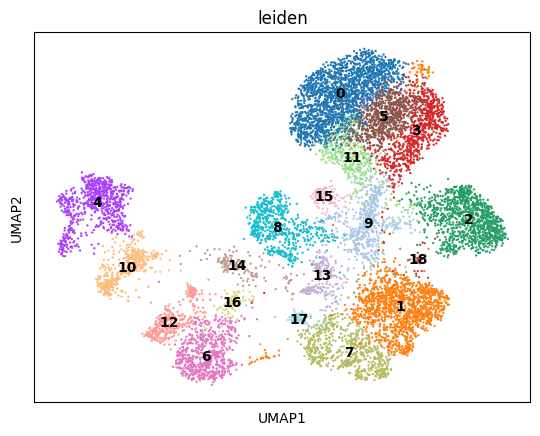
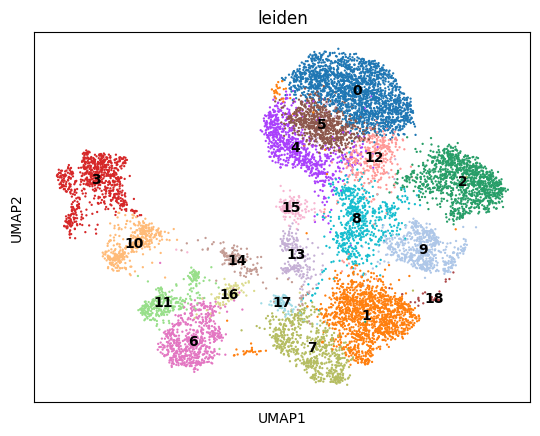
Add updated umap

Changed region(s): [[0.0889, 0.0894, 0.9481, 0.8945]]

diff --git a/README.md b/README.md
@@ -131,16 +131,12 @@ Below are the UMAP plots split by individual samples after reclustering:
 
 The following UMAP plots illustrate the clustering of subtypes within each major retinal cell type. These visualizations highlight transcriptional diversity captured by single-cell RNA sequencing.
 
-
 #### Cones Photoreceptor Subtypes
 <img src="figures/umapCones.png" alt="Cone subtypes" width="70%"> 
-<img src="figures/umap_Cones_all_conditions_umap.png" width ="70%">
+<img src="figures/umap_merged_Cones.png" width ="70%">
 
-<img src= "figures/umap_Cones_NMDA_umap.png" width ="33%"><img src= "figures/umap_Cones_LD_umap.png" width ="33%"><img src= "figures/umap_Cones_Control_umap.png" width ="33%">
+<img src= "figures/umap_Cones_NMDA.png" width ="33%"><img src= "figures/umap_Cones_LD.png" width ="33%"><img src= "figures/umap_Cones_Control.png" width ="33%">
 
-#### QC  per Cluster 
-
-<img src="figures/Cones_qc_violin.png" width ="70%">
 
 #### Cones Marker Genes 
 
